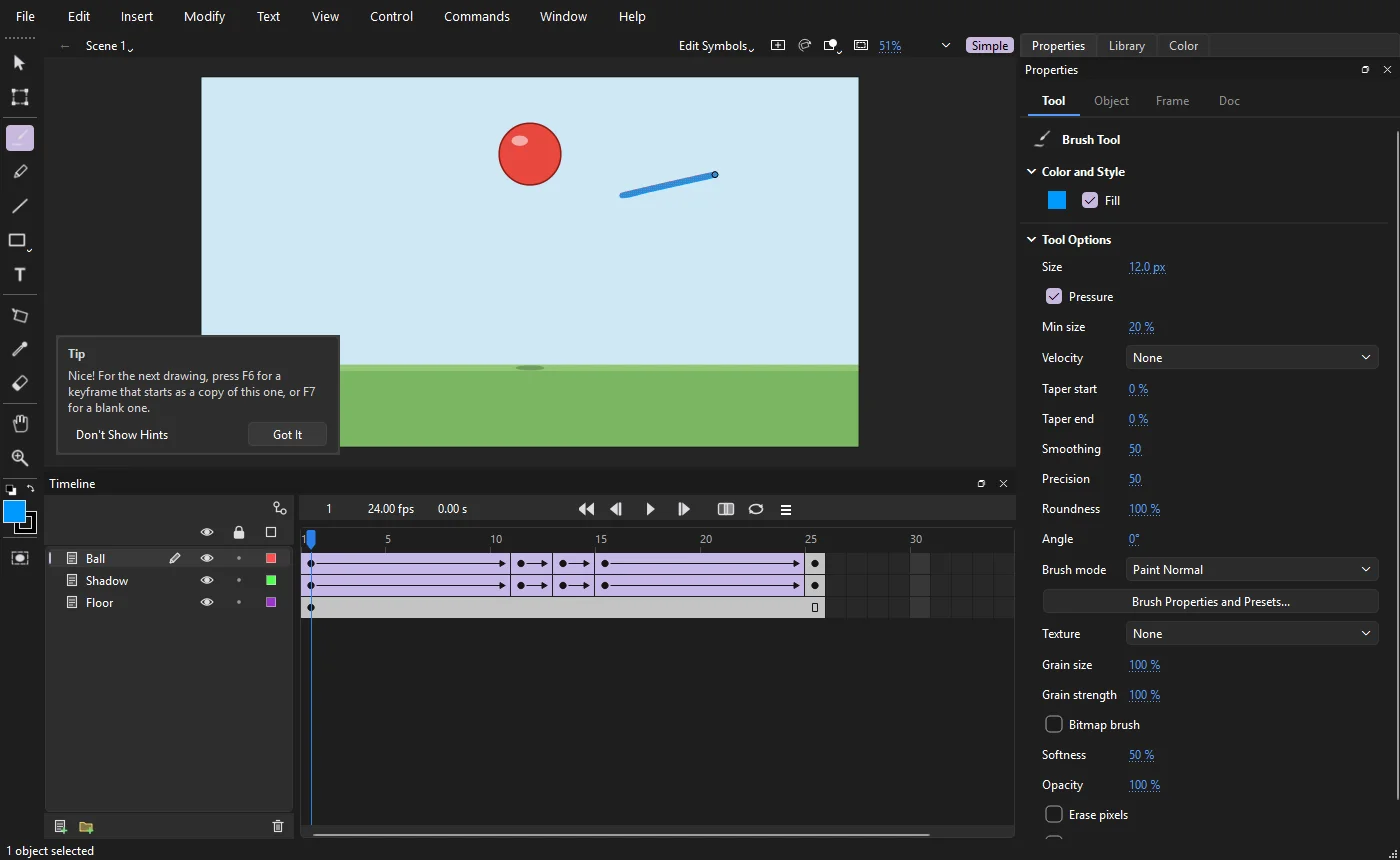
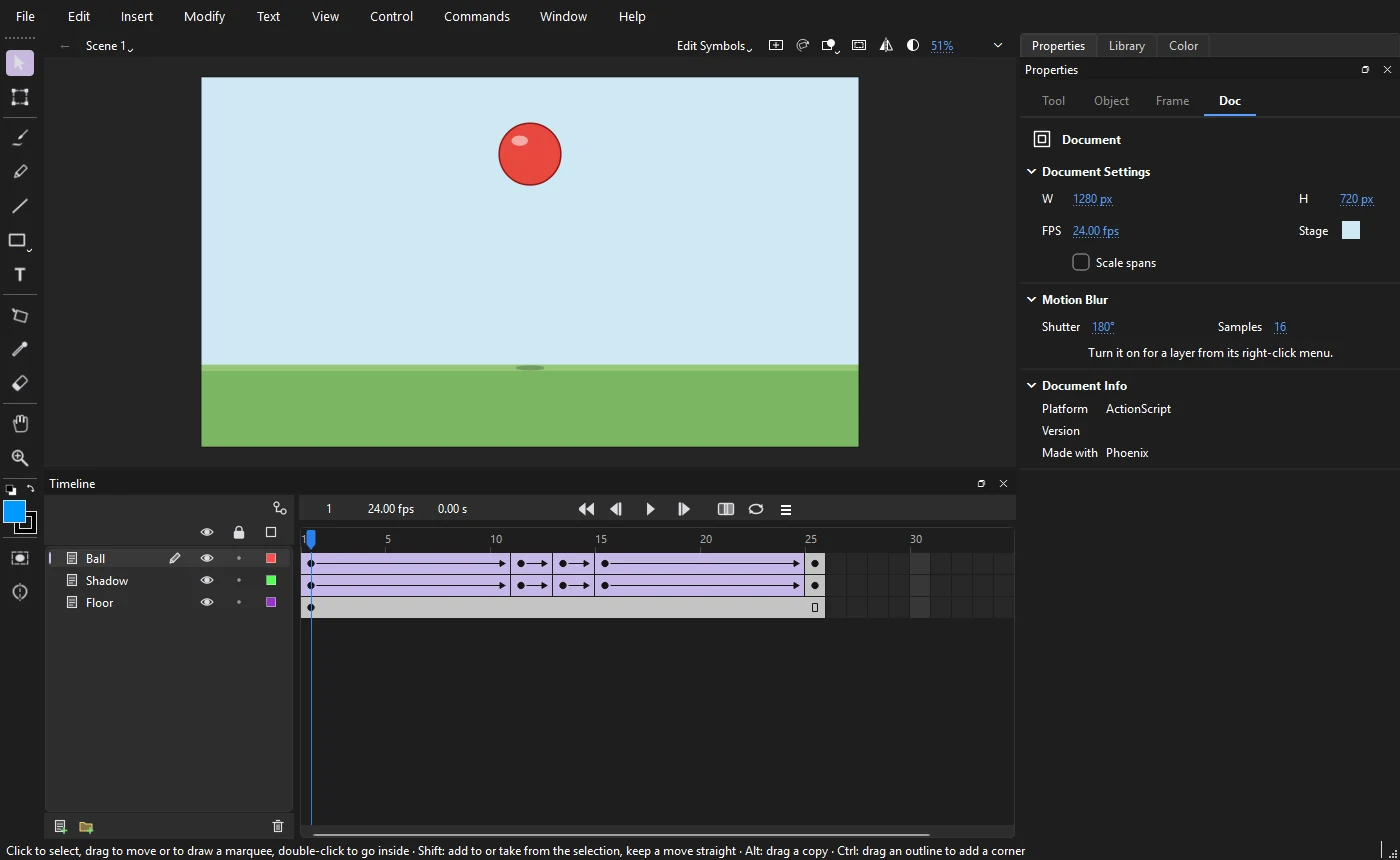
Edit bar: Grayscale toggle beside Mirror; Simple button removed

diff --git a/docs/stage.html b/docs/stage.html
@@ -64,6 +64,7 @@
   <dt>Center Stage</dt><dd>Brings the stage to the middle of the view, keeping the zoom.</dd>
   <dt>Rotation</dt><dd>Picks the <a href="#rotate-the-view">Rotation tool</a>. While the view is turned, the button shows the angle beside its icon, and clicking it sets the view straight again.</dd>
   <dt>Mirror View</dt><dd>Flips the view left to right, and back. See <a href="#mirror-the-view">Mirror the view</a>.</dd>
+  <dt>Grayscale</dt><dd>Shows the stage in shades of gray, and back. See <a href="#check-values-in-grayscale">Check values in grayscale</a>.</dd>
   <dt>Content outside the stage</dt><dd>The button's icon shows the current mode; click it to choose <strong>Show</strong>, <strong>Dim</strong> or <strong>Clip Content Outside Stage</strong> for artwork on the pasteboard. These are the same settings as <strong>Dim Outside Document</strong> and <strong>Clip Content Outside Stage</strong> in the View menu, and Phoenix remembers them. Exports are not affected.</dd>
   <dt>Zoom box</dt><dd>Shows the current zoom and follows every other way of zooming. Type a percentage, or use its arrows (or the <kbd>Up</kbd> and <kbd>Down</kbd> keys) to step through 8%, 25%, 50%, 100%, 200%, 400%, 800%, 1600% and 3200%. The arrow button beside it opens a menu with <strong>Fit in Window</strong> and <strong>Show Frame</strong> (both fit the stage in the view), <strong>Show All</strong>, and 25% to 800%.</dd>
 </dl>
@@ -112,7 +113,7 @@
 
 <h2>Check values in grayscale</h2>
 
-<p>A design reads well when its lights and darks are clear, whatever the colors. To check, choose <span class="menu-path">View &rsaquo; Grayscale</span>: the stage shows how light or dark each color is, in shades of gray. Choose it again to see the colors.</p>
+<p>A design reads well when its lights and darks are clear, whatever the colors. To check, choose <span class="menu-path">View &rsaquo; Grayscale</span> or click the half-filled circle beside the mirror button on the edit bar: the stage shows how light or dark each color is, in shades of gray. Choose it again to see the colors.</p>
 
 <figure>
   <img src="assets/shots/grayscale-view.webp" alt="The same stage in shades of gray: the dark hair, the lighter face and the pale cheeks show how far apart their values are" width="1262" height="378">

diff --git a/docs/workspace.html b/docs/workspace.html
@@ -189,7 +189,7 @@
 <p>New to animation, or just want a calm screen? The <strong>Simple</strong> workspace hides the panels you do not need yet and keeps the Tools panel short.</p>
 
 <figure>
-  <img src="assets/shots/workspace-simple.webp" alt="Phoenix in the Simple workspace: a short Tools panel on the left, the stage with a bouncing ball, the timeline below, Properties, Library and Color tabs on the right, and the Simple button lit on the edit bar" width="1400" height="860">
+  <img src="assets/shots/workspace-simple.webp" alt="Phoenix in the Simple workspace: a short Tools panel on the left, the stage with a bouncing ball, the timeline below, Properties, Library and Color tabs on the right" width="1400" height="860">
   <figcaption>The Simple workspace, with a first-use hint at the bottom of the stage.</figcaption>
 </figure>
 
@@ -198,7 +198,7 @@
   <li><strong>Panels</strong>: the timeline, Properties, the Library and Color. The others are closed; open any of them from the Window menu when you want it.</li>
 </ul>
 
-<p>To switch, click <strong>Simple</strong> at the right end of the edit bar, above the stage. Click it again to go back to the full workspace you used last. The start screen has the same choice under <strong>Layout</strong>: the first time you start Phoenix it suggests Simple, and after you pick, it just shows which one you use.</p>
+<p>To switch, choose <span class="menu-path">Window &rsaquo; Workspaces &rsaquo; Simple</span>. To go back, choose the workspace you used before, such as <strong>Essentials</strong>, from the same menu. The start screen has the same choice under <strong>Layout</strong>: the first time you start Phoenix it suggests Simple, and after you pick, it just shows which one you use.</p>
 
 <h3>Themes</h3>
 

diff --git a/docs/changelog.html b/docs/changelog.html
@@ -37,6 +37,7 @@
 <h2 id="vunreleased">Unreleased</h2>
 
 <ul>
+  <li>Grayscale has a button beside Mirror View on the edit bar; the Simple workspace is chosen from Window &gt; Workspaces instead of the edit bar</li>
   <li>View &gt; View Document... is gone from the View menu</li>
   <li>Insert Inbetween (Modify &gt; Timeline, or right-click the frames) draws a new keyframe between two drawings: halfway, a third, two thirds, or favoring either key</li>
   <li>Fill Inbetweens draws every empty frame between two drawings, spaced evenly, easing in or easing out</li>

diff --git a/src/gui/main_window_friendly.cpp b/src/gui/main_window_friendly.cpp
@@ -115,24 +115,6 @@ void MainWindow::setupFriendly()
             menu->menu()->insertAction(after, show);
             menu->menu()->insertAction(after, reset);
         }
-
-    // Simple and the full workspace, a click apart on the edit bar.
-    if (_breadcrumbRow && _breadcrumbRow->layout())
-    {
-        _workspaceSwitch = new QToolButton(_breadcrumbRow);
-        _workspaceSwitch->setObjectName("workspaceSwitch");
-        _workspaceSwitch->setText("Simple");
-        _workspaceSwitch->setCheckable(true);
-        _workspaceSwitch->setAutoRaise(true);
-        _workspaceSwitch->setToolTip("Simple: just the stage, the timeline, the common tools, Properties and "
-                                     "Color. Click again for every panel.");
-        connect(_workspaceSwitch, &QToolButton::clicked, this, [this](bool on) {
-            useWorkspace(on ? QString(simpleworkspace::name())
-                            : QSettings().value("workspace/lastFull", simpleworkspace::fullName()).toString());
-        });
-        _breadcrumbRow->layout()->addWidget(_workspaceSwitch);
-        updateWorkspaceSwitch();
-    }
 }
 
 bool MainWindow::popupPaletteOnRightClick() const
@@ -304,13 +286,11 @@ void MainWindow::applySimpleWorkspace()
     _toolbox->setLayout(tools);
 }
 
-void MainWindow::updateWorkspaceSwitch()
+void MainWindow::rememberFullWorkspace()
 {
     const QString current = QSettings().value("workspace/current", simpleworkspace::fullName()).toString();
     if (current != simpleworkspace::name())
         QSettings().setValue("workspace/lastFull", current);
-    if (_workspaceSwitch)
-        _workspaceSwitch->setChecked(current == simpleworkspace::name());
 }
 
 void MainWindow::prepareStartDialog(StartDialog& dialog)

diff --git a/src/gui/main_window_view.cpp b/src/gui/main_window_view.cpp
@@ -55,6 +55,24 @@ QIcon mirrorIcon(const QColor& color)
     return QIcon(pixmap);
 }
 
+/// Grayscale's icon: a circle half filled, light and dark.
+QIcon grayscaleIcon(const QColor& color)
+{
+    QPixmap pixmap(32, 32);
+    pixmap.setDevicePixelRatio(2.0);
+    pixmap.fill(Qt::transparent);
+    QPainter painter(&pixmap);
+    painter.setRenderHint(QPainter::Antialiasing, true);
+    const QRectF circle(2.5, 2.5, 11.0, 11.0);
+    painter.setPen(Qt::NoPen);
+    painter.setBrush(color);
+    painter.drawPie(circle, 90 * 16, 180 * 16);
+    painter.setBrush(Qt::NoBrush);
+    painter.setPen(QPen(color, 1.0));
+    painter.drawEllipse(circle);
+    return QIcon(pixmap);
+}
+
 } // namespace
 
 void MainWindow::createViewExtras(QMenu* viewMenu, QAction* after, StageControls* controls, int layoutVersion)
@@ -81,8 +99,11 @@ void MainWindow::createViewExtras(QMenu* viewMenu, QAction* after, StageControls
     grayscale->setObjectName("viewGrayscale");
     grayscale->setCheckable(true);
     grayscale->setStatusTip("Show the stage in shades of gray to check its light and dark values; the colors are not changed");
+    grayscale->setToolTip("Grayscale: show the stage in shades of gray to check its values");
     connect(grayscale, &QAction::toggled, _phoenixView, &PhoenixView::setGrayscale);
     put(grayscale);
+    if (controls)
+        controls->addToggle(grayscale, "stageGrayscale", grayscaleIcon);
 
     _canvasOnly = new CanvasOnly(this, {_breadcrumbRow}, layoutVersion);
     put(_canvasOnly->action());

diff --git a/src/gui/main_window.h b/src/gui/main_window.h
@@ -1361,12 +1361,11 @@ private:
     void showFirstUseHint(int event, const std::string& tween = std::string());
     /// The Simple workspace's docks and tools, over Phoenix's own layout.
     void applySimpleWorkspace();
-    void updateWorkspaceSwitch();
+    void rememberFullWorkspace();
     void prepareStartDialog(StartDialog& dialog);
     void openStarterTemplate(const QString& id);
     PopupPalette* _popupPalette = nullptr;
     HintBubble* _hintBubble = nullptr;
-    QToolButton* _workspaceSwitch = nullptr;
     fla::FirstUseHints _hints;
     const fla::Command* _friendlyTop = nullptr;
     size_t _friendlyIndex = 0;

diff --git a/src/gui/main_window.cpp b/src/gui/main_window.cpp
@@ -10546,7 +10546,7 @@ void MainWindow::useWorkspace(const QString& name)
     else
         return;
     QSettings().setValue("workspace/current", name);
-    updateWorkspaceSwitch();
+    rememberFullWorkspace();
 }
 
 void MainWindow::saveWorkspaceAs(const QString& name)

diff --git a/CHANGELOG.md b/CHANGELOG.md
@@ -4,6 +4,7 @@ What changed in each release of Phoenix, newest first.
 
 ## Unreleased
 
+- Grayscale has a button beside Mirror View on the edit bar; the Simple workspace is chosen from Window > Workspaces instead of the edit bar
 - View > View Document... is gone from the View menu
 - Insert Inbetween (Modify > Timeline, or right-click the frames) draws a new keyframe between two drawings: halfway, a third, two thirds, or favoring either key
 - Fill Inbetweens draws every empty frame between two drawings, spaced evenly, easing in or easing out
